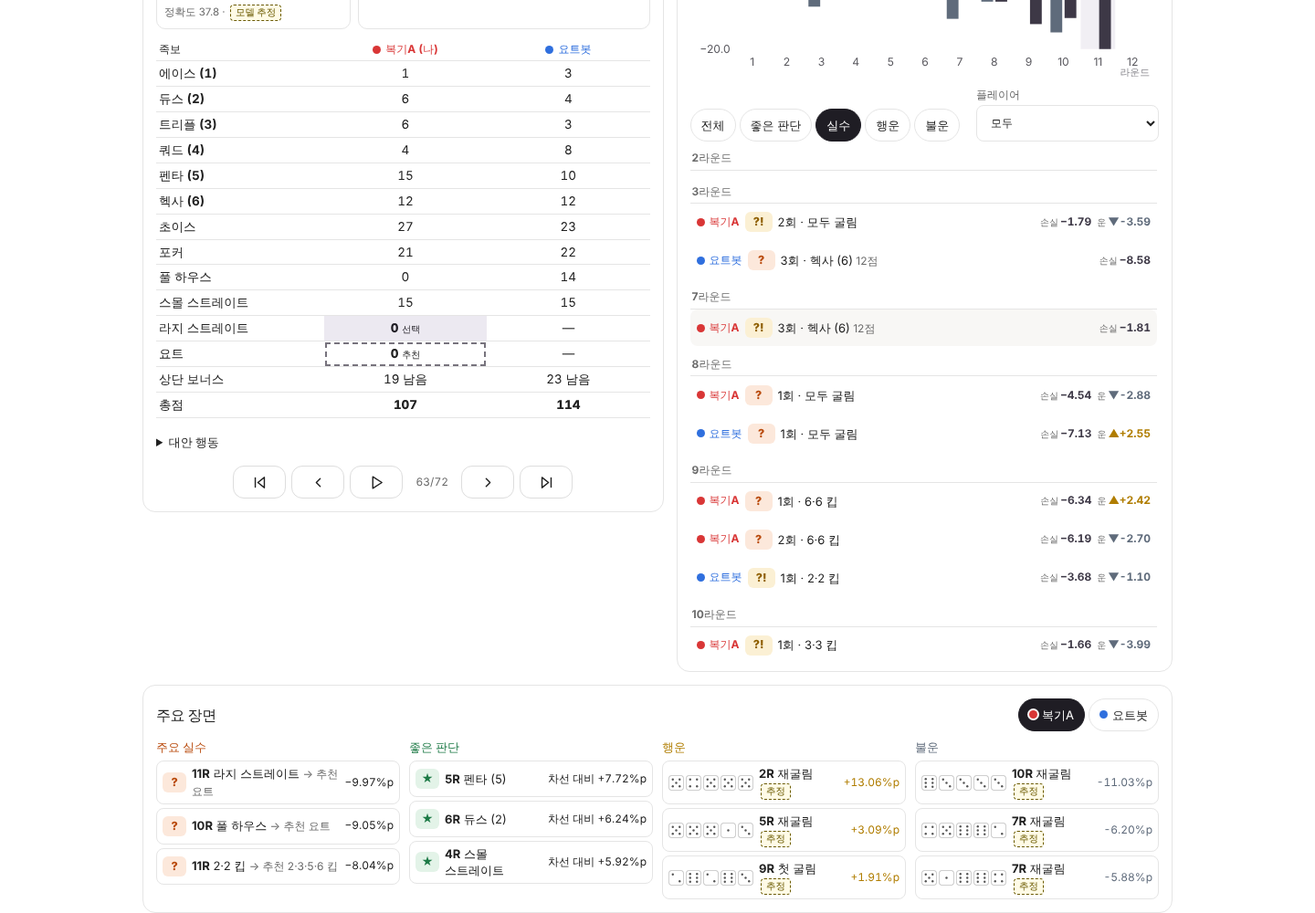
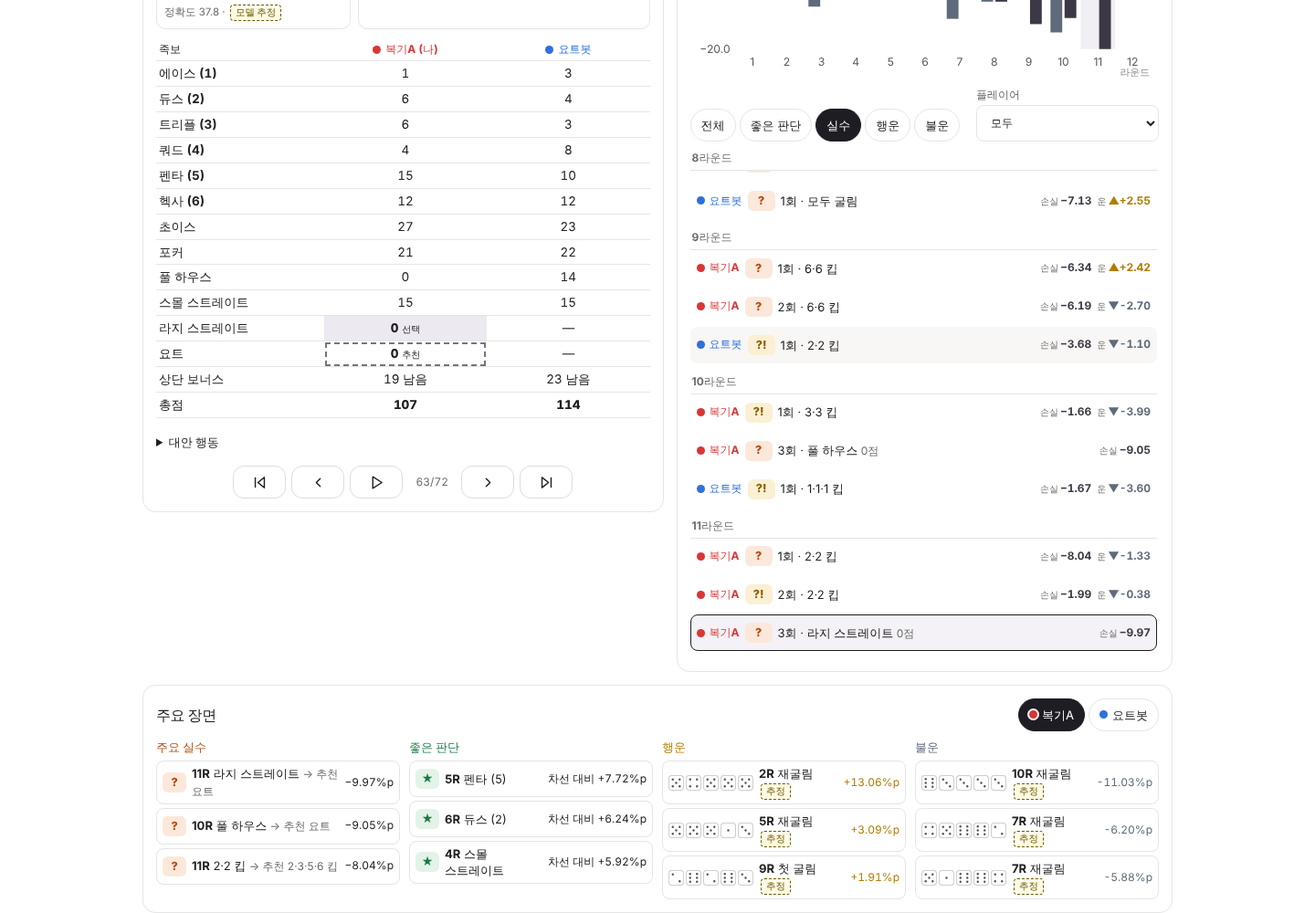
A5 integration: legacy-format regression, exact/estimate win-credit marks
- Win-credit graph: model estimates are hollow points on dashed segments,
  exact endgame values solid squares on solid segments, with a legend and a
  flag next to the current value (presentation only; no model/contract change)
- Timeline keeps the selected action visible inside its own scroll area
- Frozen legacy fixtures (v1 AI replay, v1 local multi replay with equal names,
  account archive without roll context) with unit and browser regression tests
- Docs: decision renumbered to D-091 after main's D-085..D-090; compatibility
  notes for A2.1/A2.2 and A3; refreshed screenshots

Claude-Session: https://claude.ai/code/session_01NnUvchKvZHCnehsdh3duts

diff --git a/tests/review-legacy.test.ts b/tests/review-legacy.test.ts
@@ -1,0 +1,76 @@
+import { readFileSync } from "node:fs";
+import { gunzipSync } from "node:zlib";
+import { beforeAll, describe, expect, it } from "vitest";
+import manifest from "../src/dp-manifest.json";
+import { setDPTable } from "../src/dp";
+import { total } from "../src/engine";
+import { validateMultiReplay } from "../src/multi-replay";
+import { validateReplay } from "../src/replay";
+import { firstRollPosition, reviewAlgorithmVersion, type ReviewMatch } from "../src/review/model";
+import { createReviewReport } from "../src/review/report";
+import { assessSituation } from "../src/review/solver";
+import { fromMultiReplay, fromReplay } from "../src/review/sources";
+import { seatInfo, timeline, winSeries } from "../src/review/view-model";
+
+// Frozen inputs in the formats that existed before the A5 screen (see tests/fixtures/review-legacy/generate.ts).
+const fixture = (name: string) => JSON.parse(readFileSync(new URL(`./fixtures/review-legacy/${name}`, import.meta.url), "utf8"));
+
+beforeAll(() => {
+  const decoded = gunzipSync(readFileSync(new URL("../public/ai/" + manifest.asset, import.meta.url)));
+  setDPTable(decoded.buffer.slice(decoded.byteOffset, decoded.byteOffset + decoded.byteLength) as ArrayBuffer);
+});
+
+/** DP-only (fallback) values: exact endgame win credit, nothing estimated. */
+const assess = (match: ReviewMatch) => match.steps.map((step, index) => assessSituation(step, index));
+
+describe("legacy-format review inputs", () => {
+  it("v1 AI replay (shared dice stream) still opens with an a5-v1 report", () => {
+    const replay = validateReplay(fixture("ai-replay-v1.json"));
+    expect(replay.version).toBe(1);
+    const match = fromReplay(replay);
+    if (typeof match === "string") throw Error(match);
+    expect(match.me).toBe(0);
+    expect(match.scores).toEqual([total(replay.finalState.cards[0]), total(replay.finalState.cards[1])]);
+    const values = assess(match);
+    const report = createReviewReport(match, values, "legacy-test");
+    expect(report.schema).toBe("yachtlab-review-a5-v1");
+    expect(report.algorithmVersion).toBe(reviewAlgorithmVersion);
+    expect(report.players).toHaveLength(2);
+    expect(timeline(match, report).map(({ round }) => round)).toEqual(Array.from({ length: 12 }, (_, i) => i + 1));
+    // Without the v5 bank only the exact endgame has win credit; earlier actions stay unassessed, not 0.
+    const series = winSeries(match, values, 0);
+    expect(series.length).toBeGreaterThan(0);
+    expect(series.every(({ exactness }) => exactness === "exact")).toBe(true);
+    for (const { totals } of report.players) expect(totals.unassessedActions).toBeGreaterThan(0);
+  });
+
+  it("v1 local 1:1 replay with a legacy seed stream and equal names", () => {
+    const replay = validateMultiReplay(fixture("local-multi-v1.json"));
+    expect(replay.version).toBe(1);
+    const match = fromMultiReplay(replay);
+    if (typeof match === "string") throw Error(match);
+    expect(match.scores).toEqual([total(replay.finalState.cards[0]), total(replay.finalState.cards[1])]);
+    expect(match.steps.filter(({ action }) => action.type === "score")).toHaveLength(24);
+    expect(seatInfo(match).map(({ display }) => display)).toEqual(["철수 (선공)", "철수 (후공)"]);
+    const report = createReviewReport(match, assess(match), "legacy-test");
+    expect(report.players.map(({ name }) => name)).toEqual(["철수", "철수"]);
+  });
+
+  it("account archive without roll context reads the first dice from the first decision", () => {
+    const archive = fixture("account-archive-legacy.json") as ReviewMatch;
+    expect(archive.steps.some((step) => "firstRoll" in step)).toBe(false);
+    expect(archive.unpairedFirstRolls).toBeUndefined();
+    const first = archive.steps[0];
+    expect(firstRollPosition(first)).toBe(first.before);
+    const values = assess(archive);
+    const report = createReviewReport(archive, values, "legacy-test");
+    // Same decisions as the fresh trace of the same game: identical grades and losses.
+    const fresh = fromReplay(validateReplay(fixture("ai-replay-v1.json")));
+    if (typeof fresh === "string") throw Error(fresh);
+    const freshReport = createReviewReport(fresh, assess(fresh), "legacy-test");
+    const evaluations = (r: typeof report) => r.players.flatMap(({ rounds }) => rounds.flatMap(({ actions }) => actions.map(({ evaluation }) => evaluation)));
+    expect(evaluations(report)).toEqual(evaluations(freshReport));
+    // No looks / device in the archive: the view still names both seats.
+    expect(seatInfo(archive).map(({ display }) => display)).toEqual(archive.players);
+  });
+});

diff --git a/tests/fixtures/review-legacy/generate.ts b/tests/fixtures/review-legacy/generate.ts
@@ -1,0 +1,72 @@
+/**
+ * One-off generator of the frozen legacy-format review fixtures (2026-11-27). The JSON files are the
+ * regression inputs; do not regenerate them to make a test pass.
+ *   npx tsx tests/fixtures/review-legacy/generate.ts
+ * - ai-replay-v1.json: YachtLabReplay v1 (YachtLab-12-v1, both seats share one dice stream).
+ * - local-multi-v1.json: YachtLabMultiReplay v1 (YachtLab-12-multi-v1, legacy seed stream), 1:1 local.
+ * - account-archive-legacy.json: ReviewMatch as the account archive stored it before roll context:
+ *   no firstRoll / unpairedFirstRolls / looks / device; first dice live on the first decision.
+ */
+import { writeFileSync } from "node:fs";
+import { categories, createGame, score, transition, type Action, type Game } from "../../../src/engine";
+import { createMultiGame, transitionMulti, type MultiGame } from "../../../src/multi-engine";
+import { fromReplay } from "../../../src/review/sources";
+import type { MultiReplay } from "../../../src/multi-replay";
+import type { Replay } from "../../../src/replay";
+
+const out = new URL(".", import.meta.url);
+const created = "2026-05-01T09:00:00.000Z";
+
+function play(act: (a: Action) => void, now: () => { dice: Game["dice"]; cards: Game["cards"][number][]; player: number; round: number; done: boolean }) {
+  while (!now().done) {
+    act({ type: "roll" });
+    for (let roll = 1; roll < 3; roll++) {
+      const { dice, round } = now();
+      const counts = new Map<number, number>();
+      for (const { value } of dice) counts.set(value, (counts.get(value) ?? 0) + 1);
+      const [eye] = [...counts].sort((a, b) => b[1] - a[1] || b[0] - a[0])[0];
+      const ids = round % 4 === 2 ? [] : dice.filter(({ value }) => value === eye).map(({ id }) => id);
+      if (ids.length === 5) break;
+      act({ type: "hold", ids });
+      act({ type: "roll" });
+    }
+    const { dice, cards, player } = now();
+    const values = dice.map(({ value }) => value);
+    const category = categories.filter((c) => cards[player][c] === undefined).sort((a, b) => score(values, b) - score(values, a))[0];
+    act({ type: "score", category });
+  }
+}
+
+const initialState = createGame(2024);
+const players: Replay["metadata"]["players"] = [{ name: "옛기록", type: "human" }, { name: "DP Expert", type: "ai", algorithm: "DP Expert" }];
+const replay: Replay = {
+  format: "YachtLabReplay", version: 1,
+  metadata: { id: "legacy-ai-v1", name: "이전 형식 AI 대국", createdAt: created, ruleVersion: "YachtLab-12-v1", players },
+  initialState, finalState: initialState,
+  frames: [{ state: initialState, action: null, actor: 0, label: "경기 준비", actorName: players[0].name }],
+};
+play((action) => {
+  const { player } = replay.finalState;
+  replay.finalState = transition(replay.finalState, action);
+  replay.frames.push({ action, state: replay.finalState, actor: player, label: action.type, actorName: players[player].name });
+}, () => replay.finalState);
+writeFileSync(new URL("ai-replay-v1.json", out), JSON.stringify(replay));
+
+let multi: MultiGame = createMultiGame(2, 777, true);
+const actions: Action[] = [];
+play((action) => { multi = transitionMulti(multi, action); actions.push(action); }, () => multi);
+const local: MultiReplay = {
+  format: "YachtLabMultiReplay", version: 1,
+  metadata: { id: "legacy-local-v1", name: "이전 형식 로컬 대전", createdAt: created, ruleVersion: "YachtLab-12-multi-v1",
+    players: [{ name: "철수", type: "human" }, { name: "철수", type: "human" }] },
+  seed: 777, actions, finalState: multi,
+};
+writeFileSync(new URL("local-multi-v1.json", out), JSON.stringify(local));
+
+const match = fromReplay(replay);
+if (typeof match === "string") throw Error(match);
+const archive = {
+  id: "legacy-archive", players: match.players, scores: match.scores, winners: match.winners, me: 0,
+  steps: match.steps.map(({ firstRoll: _drop, ...step }) => step),
+};
+writeFileSync(new URL("account-archive-legacy.json", out), JSON.stringify(archive));

diff --git a/src/review/ReviewChart.tsx b/src/review/ReviewChart.tsx
@@ -27,6 +27,9 @@ export function ProgressChart({ label, unit, series, steps, rounds, selected, ch
     change(nearest.index);
   }
   const current = series.map((line) => ({ line, point: [...line.points].reverse().find(({ x: px }) => px <= selected) }));
+  const marked = all.some(({ exactness }) => exactness);
+  const kinds = new Set(all.map(({ exactness }) => exactness));
+  const tag = (p?: SeriesPoint) => p?.exactness === "exact" ? " 정확" : p?.exactness === "estimate" ? " 추정" : "";
   const labelled = rounds.filter((_, i) => rounds.length <= 12 || i % 2 === 0);
 
   return <div className="review-chart" role="group" aria-label={label + " 그래프"}>
@@ -34,7 +37,12 @@ export function ProgressChart({ label, unit, series, steps, rounds, selected, ch
       <b>{rounds.filter(({ index }) => index <= selected).pop()?.round ?? rounds[0]?.round}라운드</b>{" "}
       {current.map(({ line, point }) => <span key={line.key} className={"review-legend tone-" + line.tone}>
         <i aria-hidden="true" />{line.label} {point ? `${point.value.toFixed(unit === "점" ? 1 : 2)}${unit}` : "—"}
+        {point?.exactness && <b className={"review-flag " + point.exactness}>{point.exactness === "exact" ? "정확 종반" : "모델 추정"}</b>}
       </span>)}
+      {marked && <span className="review-exactness-key" aria-label="점 모양 설명">
+        {kinds.has("estimate") && <span><svg viewBox="0 0 22 10" aria-hidden="true"><line x1="0" x2="22" y1="5" y2="5" className="estimate" /><circle cx="11" cy="5" r="3" className="estimate" /></svg>모델 추정</span>}
+        {kinds.has("exact") && <span><svg viewBox="0 0 22 10" aria-hidden="true"><line x1="0" x2="22" y1="5" y2="5" className="exact" /><rect x="8" y="2" width="6" height="6" className="exact" /></svg>정확 종반</span>}
+      </span>}
     </output>
     <svg viewBox={`0 0 ${W} ${H}`} role="img" aria-labelledby={id} onPointerUp={pick}>
       <title id={id}>{label} 그래프. 점을 누르면 해당 행동으로 이동해요.</title>
@@ -49,11 +57,22 @@ export function ProgressChart({ label, unit, series, steps, rounds, selected, ch
       </g>)}
       <line className="review-cursor" x1={x(selected)} x2={x(selected)} y1={TOP - 4} y2={BOTTOM} />
       {series.map((line) => <g key={line.key} className={"review-series tone-" + line.tone}>
-        <polyline points={line.points.map((p) => `${x(p.x)},${y(p.value)}`).join(" ")} />
-        {line.points.map((p) => <circle key={p.index} cx={x(p.x)} cy={y(p.value)} r={p.index === selected ? 4.5 : 2}
-          className={p.index === selected ? "chosen" : undefined}>
-          <title>{p.round}라운드 · {p.value.toFixed(2)}{unit}</title>
-        </circle>)}
+        {line.points.slice(1).map((p, i) => {
+          const from = line.points[i];
+          // A segment is solid only when both ends are exact values.
+          const kind = from.exactness === "estimate" || p.exactness === "estimate" ? "estimate" : "exact";
+          return <line key={p.index} className={"review-seg-" + kind} x1={x(from.x)} y1={y(from.value)} x2={x(p.x)} y2={y(p.value)} />;
+        })}
+        {line.points.map((p) => {
+          const chosen = p.index === selected;
+          const className = [chosen ? "chosen" : "", p.exactness ?? ""].join(" ").trim() || undefined;
+          const title = <title>{p.round}라운드 · {p.value.toFixed(2)}{unit}{tag(p)}</title>;
+          if (p.exactness === "exact") {
+            const r = chosen ? 4.5 : 2.6;
+            return <rect key={p.index} x={x(p.x) - r} y={y(p.value) - r} width={r * 2} height={r * 2} className={className}>{title}</rect>;
+          }
+          return <circle key={p.index} cx={x(p.x)} cy={y(p.value)} r={chosen ? 4.5 : p.exactness ? 2.4 : 2} className={className}>{title}</circle>;
+        })}
       </g>)}
       <text className="review-axis" x={RIGHT} y={H - 1} textAnchor="end">라운드</text>
     </svg>

diff --git a/tests/ui/review-legacy.spec.ts b/tests/ui/review-legacy.spec.ts
@@ -1,0 +1,47 @@
+import { readFileSync } from "node:fs";
+import { expect, test } from "@playwright/test";
+import { seedReplays } from "./review-fixtures";
+
+// Regression: replays saved in the formats that existed before the A5 screen still open, analyse,
+// separate exact from estimated win credit, and reuse the cached analysis.
+test.use({ serviceWorkers: "block" });
+const fixture = (name: string) => JSON.parse(readFileSync(new URL(`../fixtures/review-legacy/${name}`, import.meta.url), "utf8"));
+
+test("이전 형식 AI 기보(v1)는 분석·정확/추정 구분·캐시 재사용이 유지된다", async ({ page }) => {
+  test.setTimeout(120_000);
+  await seedReplays(page, { ai: [fixture("ai-replay-v1.json")] });
+  const row = page.locator(".record-row").filter({ hasText: "옛기록" });
+  await row.getByRole("button", { name: "게임 리뷰" }).click();
+  const review = page.getByRole("dialog", { name: "게임 리뷰" });
+  await expect(review.getByText("분석 완료")).toBeVisible({ timeout: 90_000 });
+  await expect(review.getByRole("region", { name: "최종 결과" })).toContainText("옛기록");
+  const chart = review.getByRole("group", { name: "승리점수율 그래프" });
+  await expect(chart.getByLabel("점 모양 설명")).toContainText("모델 추정");
+  await expect(chart.getByLabel("점 모양 설명")).toContainText("정확 종반");
+  await expect(chart.locator("circle.estimate").first()).toBeAttached();
+  await expect(chart.locator("rect.exact").first()).toBeAttached();
+  await expect(chart.locator("output .review-flag")).toHaveText("모델 추정");
+  await review.getByRole("button", { name: "마지막", exact: true }).click();
+  await expect(chart.locator("output .review-flag")).toHaveText("정확 종반");
+  await review.getByRole("button", { name: "돌아가기" }).click();
+
+  let requested = false;
+  await page.route("**/assets/product-worker-*.js", async (route) => { requested = true; await route.abort(); });
+  await page.reload();
+  await row.getByRole("button", { name: "게임 리뷰" }).click();
+  await expect(review.getByText("저장된 분석")).toBeVisible({ timeout: 20_000 });
+  expect(requested).toBe(false);
+});
+
+test("이전 형식 로컬 1:1 기보(v1, 같은 이름)는 좌석으로 구분돼 열린다", async ({ page }) => {
+  test.setTimeout(120_000);
+  await seedReplays(page, { multi: [fixture("local-multi-v1.json")] });
+  await page.locator(".record-row").filter({ hasText: "로컬 대전" }).getByRole("button", { name: "게임 리뷰" }).click();
+  const review = page.getByRole("dialog", { name: "게임 리뷰" });
+  await expect(review.getByText("분석 완료")).toBeVisible({ timeout: 90_000 });
+  const summary = review.getByRole("region", { name: "최종 결과" });
+  await expect(summary).toContainText("철수 (선공)");
+  await expect(summary).toContainText("철수 (후공)");
+  await expect(review.getByRole("list", { name: "행동 타임라인" }).locator("[aria-current=step]")).toHaveCount(1);
+  expect(await review.evaluate((surface) => surface.scrollWidth)).toBeLessThanOrEqual(await review.evaluate((surface) => surface.clientWidth));
+});

diff --git a/tests/ui/review-a5.spec.ts b/tests/ui/review-a5.spec.ts
@@ -5,7 +5,7 @@ import { aiReplay, seedReplays, soloReplay } from "./review-fixtures";
 test.use({ serviceWorkers: "block" });
 
 test("1인 리뷰는 기대점수(점) 단위의 한 명만 보여 주고 분석 실패와 재시도를 구분한다", async ({ page }) => {
-  await seedReplays(page, { solo: [soloReplay()] });
+  await seedReplays(page, { multi: [soloReplay()] });
   const workerModule = "**/assets/review-worker-*.js";
   await page.route(workerModule, (route) => route.abort());
   await page.getByRole("button", { name: "게임 리뷰" }).click();
@@ -60,6 +60,12 @@ test("필터·하이라이트·그래프가 같은 행동을 가리키고 동명
   await review.getByRole("group", { name: /라운드별 판단 손실과 주사위 운 그래프/ }).getByRole("button", { name: /^5라운드/ }).click();
   await expect(review.locator(".review-current strong")).toContainText("5라운드");
   await expect(review.getByRole("button", { name: /5라운드/ }).and(timeline.locator("[aria-current=step]"))).toHaveCount(1);
+  // The current action stays visible inside the timeline's own scroll area.
+  await review.getByRole("button", { name: "마지막", exact: true }).click();
+  await expect.poll(() => timeline.evaluate((list) => {
+    const item = list.querySelector("[aria-current=step]")!.getBoundingClientRect(), box = list.getBoundingClientRect();
+    return item.top >= box.top - 1 && item.bottom <= box.bottom + 1;
+  })).toBe(true);
   await review.getByRole("radio", { name: "점수", exact: true }).click();
   await expect(review.getByRole("group", { name: "라운드별 점수 그래프" })).toContainText("요트 (후공)");
   expect(await review.evaluate((surface) => surface.scrollWidth)).toBeLessThanOrEqual(await review.evaluate((surface) => surface.clientWidth));

diff --git a/src/review/review.css b/src/review/review.css
@@ -141,9 +141,20 @@
 .review-series { --tone: #555; }
 .review-series.tone-me { --tone: var(--tone-me); }
 .review-series.tone-opp { --tone: var(--tone-opp); }
-.review-series polyline { fill: none; stroke: var(--tone); stroke-width: 1.6; }
-.review-series circle { fill: var(--tone); }
-.review-series circle.chosen { fill: #fff; stroke: var(--tone); stroke-width: 2.5; }
+.review-series line { stroke: var(--tone); stroke-width: 1.6; }
+.review-series line.review-seg-estimate { stroke-dasharray: 4 3; stroke-width: 1.3; }
+.review-series :is(circle, rect) { fill: var(--tone); }
+/* Model estimates are hollow on a dashed line; exact endgame values are solid squares on a solid line. */
+.review-series circle.estimate { fill: #fff; stroke: var(--tone); stroke-width: 1.3; }
+.review-series :is(circle, rect).chosen { fill: #fff; stroke: var(--tone); stroke-width: 2.5; }
+.review-series rect.exact.chosen { fill: var(--tone); stroke: #1f1d24; }
+.review-exactness-key { display: inline-flex; gap: 10px; color: var(--muted); font-size: 11.5px; }
+.review-exactness-key > span { display: inline-flex; align-items: center; gap: 3px; }
+.review-exactness-key svg { width: 22px; height: 10px; }
+.review-exactness-key line { stroke: #555; stroke-width: 1.4; }
+.review-exactness-key line.estimate { stroke-dasharray: 3 2; }
+.review-exactness-key circle { fill: #fff; stroke: #555; stroke-width: 1.3; }
+.review-exactness-key rect { fill: #555; }
 .review-bars rect.luck-plus { fill: var(--luck-plus); }
 .review-bars rect.luck-minus { fill: var(--luck-minus); }
 .review-bars rect.loss { fill: var(--loss); }

diff --git a/tests/ui/review-a5-shots.spec.ts b/tests/ui/review-a5-shots.spec.ts
@@ -9,12 +9,17 @@ const dir = process.env.REVIEW_SHOTS!;
 for (const kind of ["ai", "solo", "same"] as const) test(`shot ${kind}`, async ({ page }, info) => {
   test.setTimeout(120_000);
   const ai = kind === "ai" ? [aiReplay()] : kind === "same" ? [aiReplay(["요트", "요트"], "same-names", 91)] : [];
-  await seedReplays(page, { ai, solo: kind === "solo" ? [soloReplay()] : [] });
+  await seedReplays(page, { ai, multi: kind === "solo" ? [soloReplay()] : [] });
   await page.getByRole("button", { name: "게임 리뷰" }).first().click();
   const review = page.getByRole("dialog", { name: "게임 리뷰" });
   await expect(review.getByText(/분석 완료|저장된 분석/)).toBeVisible({ timeout: 90_000 });
   const p = info.project.name;
   await page.screenshot({ path: `${dir}/${kind}-${p}-top.png`, fullPage: false });
+  if (kind !== "solo") {
+    await review.getByRole("button", { name: "마지막", exact: true }).click();
+    await review.getByRole("region", { name: "경기 전체 분석" }).scrollIntoViewIfNeeded();
+    await page.screenshot({ path: `${dir}/${kind}-${p}-endgame.png` });
+  }
   const mistake = review.getByRole("region", { name: "주요 장면" }).locator(".mistakes button").first();
   if (await mistake.count()) await mistake.click();
   await review.locator(".review-position").scrollIntoViewIfNeeded();

diff --git a/src/review/view-model.ts b/src/review/view-model.ts
@@ -152,7 +152,8 @@ export function goodMoments(match: ReviewMatch, report: ReviewReport, values: re
   return rows.sort((a, b) => gradeOrder.indexOf(a.grade) - gradeOrder.indexOf(b.grade) || b.margin - a.margin).slice(0, limit);
 }
 
-export type SeriesPoint = { x: number; index: number; round: number; value: number };
+/** `exactness` is set only where the series mixes exact and estimated values (2인 승리점수율). */
+export type SeriesPoint = { x: number; index: number; round: number; value: number; exactness?: "exact" | "estimate" };
 
 /** Running total after each recorded category, from the public card of that moment. */
 export function scoreSeries(match: ReviewMatch, seat: number): SeriesPoint[] {
@@ -172,7 +173,8 @@ export function winSeries(match: ReviewMatch, values: readonly Assessment[], ref
     const credit = row.actual.winCredit;
     if (credit === undefined) return [];
     const { player, round } = match.steps[row.index].before;
-    return [{ x: row.index, index: row.index, round, value: player === reference ? credit * 100 : 100 - credit * 100 }];
+    return [{ x: row.index, index: row.index, round, value: player === reference ? credit * 100 : 100 - credit * 100,
+      exactness: row.exactness === "exact" ? "exact" as const : "estimate" as const }];
   });
 }
 

diff --git a/tests/ui/review.spec.ts b/tests/ui/review.spec.ts
@@ -152,12 +152,12 @@ test("기본 대전 리뷰는 중반 추정과 정확 종반을 구분하고 값
   const review = page.getByRole("dialog", { name: "게임 리뷰" });
   const win = review.getByRole("group", { name: "승리점수율 그래프" });
   await expect(win).toBeVisible({ timeout: 35_000 });
-  await expect(review.getByText("모델 추정", { exact: true })).toBeVisible();
+  await expect(review.getByLabel("판단 평가").getByText("모델 추정", { exact: true })).toBeVisible();
   await review.getByText("분석 정보", { exact: true }).click();
   await expect(review.getByText(/내 선택의 예상 승리 .* 무승부 .* 패배/)).toBeVisible();
   await review.getByRole("radio", { name: "손실·운" }).click();
   await expect(review.getByRole("group", { name: /라운드별 판단 손실과 주사위 운 그래프/ }).getByRole("button").first()).toHaveAttribute("aria-label", /%p/);
   await review.getByRole("button", { name: "마지막", exact: true }).click();
-  await expect(review.getByText("정확 종반", { exact: true })).toBeVisible();
+  await expect(review.getByLabel("판단 평가").getByText("정확 종반", { exact: true })).toBeVisible();
   await expect(review.getByText(/내 선택의 예상 승리 .* 무승부 .* 패배/)).toHaveCount(0);
 });

diff --git a/tests/review-view.test.ts b/tests/review-view.test.ts
@@ -60,6 +60,9 @@ describe("A5 review view model", () => {
     const values = [value(0, m.steps[0], 0.7, 0.4), value(1, m.steps[1], 0.2, 0.5)];
     expect(winSeries(m, values, 0).map(({ value }) => Math.round(value))).toEqual([70, 80]);
     expect(winSeries(m, values, 1).map(({ value }) => Math.round(value))).toEqual([30, 20]);
+    expect(winSeries(m, values, 0).map(({ exactness }) => exactness)).toEqual(["estimate", "estimate"]);
+    const exact = [{ ...values[0], exactness: "exact" as const }, values[1]];
+    expect(winSeries(m, exact, 0).map(({ exactness }) => exactness)).toEqual(["exact", "estimate"]);
     expect(scoreSeries(m, 0)).toHaveLength(1);
     expect(scoreSeries(m, 0)[0].value).toBeGreaterThan(0);
   });

diff --git a/tests/ui/review-fixtures.ts b/tests/ui/review-fixtures.ts
@@ -81,9 +81,9 @@ async function put(page: Page, database: string, record: unknown) {
   }, { database, record });
 }
 
-export async function seedReplays(page: Page, { ai = [], solo = [] }: { ai?: Replay[]; solo?: MultiReplay[] }) {
+export async function seedReplays(page: Page, { ai = [], multi = [] }: { ai?: Replay[]; multi?: MultiReplay[] }) {
   await page.goto("#records");
   for (const replay of ai) await put(page, "YachtLabReplays", replay);
-  for (const replay of solo) await put(page, "YachtLabMultiReplays", replay);
+  for (const replay of multi) await put(page, "YachtLabMultiReplays", replay);
   await page.getByRole("button", { name: "새로고침" }).click();
 }

diff --git a/src/review/ReviewPage.tsx b/src/review/ReviewPage.tsx
@@ -116,7 +116,7 @@ function MatchAnalysis({ match }: { match: ReviewMatch }) {
     const container = list.current;
     const item = container?.querySelector<HTMLElement>("[aria-current=step]");
     if (!container || !item) return;
-    const top = item.offsetTop - container.offsetTop;
+    const top = item.getBoundingClientRect().top - container.getBoundingClientRect().top + container.scrollTop;
     if (top < container.scrollTop) container.scrollTop = top - 28;
     else if (top + item.offsetHeight > container.scrollTop + container.clientHeight)
       container.scrollTop = top + item.offsetHeight - container.clientHeight + 8;
